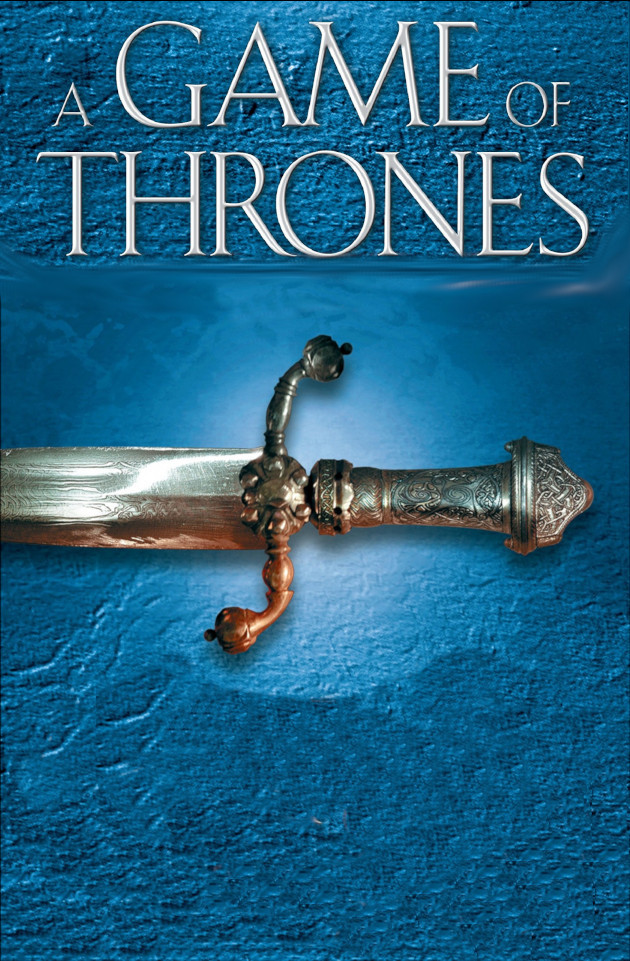
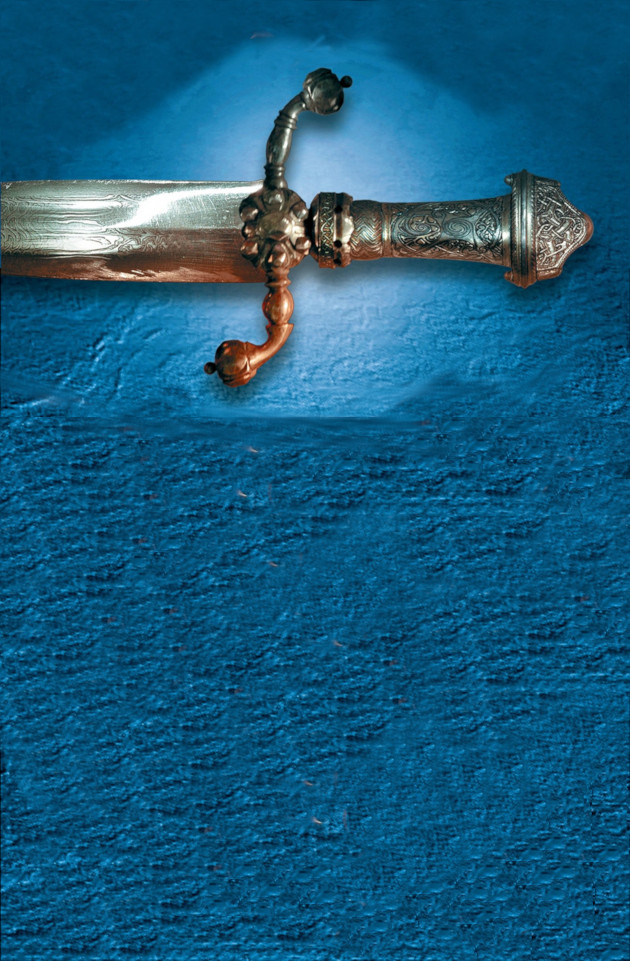
wip on images

diff --git a/src/graph.js b/src/graph.js
@@ -18,13 +18,16 @@ const bookColours = {
   4: "rgba(255,0,0,0.2)",
   5: "rgba(255,255,255,0.2)"
 };
-const bookImgIds = {
-  1: "agot-cover",
-  2: "acok-cover",
-  3: "asos-cover",
-  4: "affc-cover",
-  5: "adwd-cover"
-};
+const bookImgIds = [
+  "",
+  "agot-cover",
+  "acok-cover",
+  "asos-cover",
+  "affc-cover",
+  "adwd-cover"
+];
+
+const bookImgOffsets = [0, 100, 200, 200, 200, 100];
 
 var elements = [];
 
@@ -250,7 +253,7 @@ class Graph extends Component {
       context.fillStyle = "black";
       context.drawImage(
         img,
-        200,
+        (630 - width) / 2,
         0,
         width,
         961,

diff --git a/public/index.html b/public/index.html
@@ -42,6 +42,10 @@
     </main>
     <div style="display:none">
       <img id="agot-cover" style="height: 900px" src="img/agot-cover.jpg" />
+      <img id="acok-cover" style="height: 900px" src="img/acok-cover2.jpg" />
+      <img id="asos-cover" style="height: 900px" src="img/asos-cover2.jpg" />
+      <img id="affc-cover" style="height: 900px" src="img/affc-cover2.jpg" />
+      <img id="adwd-cover" style="height: 900px" src="img/adwd-cover2.jpg" />
     </div>
     <!--
       This HTML file is a template.

diff --git a/src/App.js b/src/App.js
@@ -12,10 +12,10 @@ import GraphContainer from "./GraphContainer";
 import capitalise from "./utils";
 
 const initialState = {
-  word: "ice",
-  filterByChar: "Jon",
+  word: "",
+  filterByChar: "",
   filterByBook: "",
-  groupBy: "cid"
+  groupBy: "pov"
 };
 
 class App extends Component {
